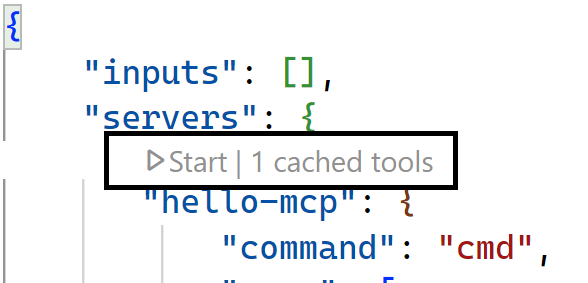
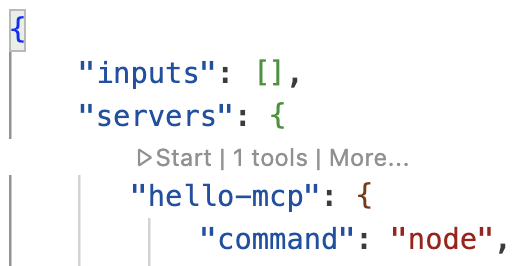
fix mcp json plus typos

diff --git a/03-GettingStarted/04-vscode/README.md b/03-GettingStarted/04-vscode/README.md
@@ -36,20 +36,19 @@ You can control your MCP server in two different ways:
 
 Let's talk more about how we use the visual interface in the next sections.
 
-
-## Approach 
+## Approach
 
 Here's how we need to approach this at high level:
 
 - Configure a file to find our MCP Server.
 - Start up/Connect to said server to have it list its capabilities.
-- Use said capabilities through GitHub Copilots chat interface.
+- Use said capabilities through GitHub Copilot Chat interface.
 
 Great, now that we understand the flow, let's try use an MCP Server through Visual Studio Code through an exercise.
 
 ## Exercise: Consuming a server
 
-In this exercise, we will configure Visual Studio Code to find your MCP server so that it can be used from GitHub Copilots chat interface.
+In this exercise, we will configure Visual Studio Code to find your MCP server so that it can be used from GitHub Copilot Chat interface.
 
 ### -0- Prestep, enable MCP Server discovery
 
@@ -79,9 +78,9 @@ Add the following content to *mcp.json*:
     "inputs": [],
     "servers": {
        "hello-mcp": {
-           "command": "cmd",
+           "command": "node",
            "args": [
-               "/c", "node", "<absolute path>\\build\\index.js"
+               "build/index.js"
            ]
        }
     }
@@ -98,11 +97,11 @@ Now that you've added an entry, let's start the server:
 
   ![Starting server in Visual Studio Code](./assets/vscode-start-server.png)  
 
-1. Click the "play" icon, you should see the tools icon in the GitHun Copilot chat increase the number of available tools. If you click said tools icon, you will see a list of registered tools. You can check/uncheck each tool depending if you want GitHub Copilot to use them as context: 
+1. Click the "play" icon, you should see the tools icon in the GitHub Copilot Chat increase the number of available tools. If you click said tools icon, you will see a list of registered tools. You can check/uncheck each tool depending if you want GitHub Copilot to use them as context:
 
   ![Starting server in Visual Studio Code](./assets/vscode-tool.png)
 
-1. Ton run a tool, type a prompt that you know will match the description of one of your tools, for example a prompt like so "add 22 to 1":
+1. To run a tool, type a prompt that you know will match the description of one of your tools, for example a prompt like so "add 22 to 1":
 
   ![Running a tool from GitHub Copilot](./assets/vscode-agent.png)
 
@@ -110,7 +109,7 @@ Now that you've added an entry, let's start the server:
 
 ## Assignment
 
-Try adding a server entry to you *mcp.json* file and make sure you can start/stop the server. Make sure you can also communicate with the tools on your server via GitHub Copilots chat interface.
+Try adding a server entry to you *mcp.json* file and make sure you can start/stop the server. Make sure you can also communicate with the tools on your server via GitHub Copilot Chat interface.
 
 ## Solution
 
@@ -121,16 +120,16 @@ Try adding a server entry to you *mcp.json* file and make sure you can start/sto
 The takeaways from this chapter is the following:
 
 - Visual Studio Code is a great client that lets you consume several MCP Servers and their tools.
-- GitHub Copilots chat interface is how you interact with the servers.
+- GitHub Copilot Chat interface is how you interact with the servers.
 - You can prompt the user for inputs like API keys that can be passed to the MCP Server when configuring the server entry in *mcp.json* file.
 
-## Samples 
+## Samples
 
 - [Java Calculator](../samples/java/calculator/README.md)
 - [.Net Calculator](../samples/csharp/)
 - [JavaScript Calculator](../samples/javascript/README.md)
 - [TypeScript Calculator](../samples/typescript/README.md)
-- [Python Calculator](../samples/python/) 
+- [Python Calculator](../samples/python/)
 
 ## Additional Resources
 
@@ -139,5 +138,3 @@ The takeaways from this chapter is the following:
 ## What's Next
 
 - Next: [Creating an SSE Server](/03-GettingStarted/05-sse-server/README.md)
-
-

diff --git a/03-GettingStarted/04-vscode/solution/README.md b/03-GettingStarted/04-vscode/solution/README.md
@@ -4,7 +4,7 @@ Here we assume you already have a working server code. Please locate a server fr
 
 ## Set up mcp.json
 
-Here's a file you use for reference, [mcp.json](./mcp.json). 
+Here's a file you use for reference, [mcp.json](./mcp.json).
 
 Change the server entry as needed to point out the absolute path to your server including the needed full command to run.
 
@@ -12,30 +12,29 @@ In the example file referred above the server entry looks like so:
 
 ```json
 "hello-mcp": {
-    "command": "cmd",
+    "command": "node",
     "args": [
-        "/c", "node", "<absolute path>\\build\\index.js"
+        "build/index.js"
     ]
 }
 ```
 
-This corresponds to running a command like so: `cmd /c node <absolute path>\\build\index.js`. 
+This corresponds to running a command like so: `node build/index.js`.
 
 - Change this server entry to fit where your server file is located or to what's needed to startup your server depending on your chosen runtime and server location.
 
 ## Consume the features in the server
 
-- Click the `play` icon, once you've added *mcp.json* to *./vscode* folder, 
+- Click the `play` icon, once you've added *mcp.json* to *./vscode* folder,
 
     Observe the tooling icon change to increase the number of available tools. Tooling icon is located right above the chat field in GitHub Copilot.
 
 ## Run a tool
 
-- Type a prompt in your chat window that matches the description of your tool. For example to trigger the tool `add` type something like "add 3 to 20". 
+- Type a prompt in your chat window that matches the description of your tool. For example to trigger the tool `add` type something like "add 3 to 20".
 
     You should see a tool being presented above the chat text box indicating for you to select to run the tool like in this visual:
 
     ![VS Code indicating it wanting to run a tool](../assets/vscode-agent.png)
 
     Selecting the tool should produce a numeric result saying "23" if your prompt was like we mentioned previously.
-

diff --git a/03-GettingStarted/02-client/README.md b/03-GettingStarted/02-client/README.md
@@ -96,7 +96,7 @@ As said above, let's take our time explaining the code, and by all means code al
 
 ### -1- Import the libraries
 
-Let's import the libraries we need, we will need references to a client and to our chosen transport protocol, stdio. stdio is a protcol for things meant to run on your local machine. SSE is another transport protocol we will show in future chapters but that's your other option. For now though, let's continue with stdio. 
+Let's import the libraries we need, we will need references to a client and to our chosen transport protocol, stdio. stdio is a protocol for things meant to run on your local machine. SSE is another transport protocol we will show in future chapters but that's your other option. For now though, let's continue with stdio. 
 
 <details>
 <summary>TypeScript</summary>

diff --git a/README.md b/README.md
@@ -13,7 +13,7 @@
 [![Microsoft Azure AI Foundry Discord](https://dcbadge.vercel.app/api/server/ByRwuEEgH4)](https://discord.com/invite/ByRwuEEgH4)
 
 
-Follow these steps to get started using these resources :
+Follow these steps to get started using these resources:
 1. **Fork the Repository**: Click [![GitHub forks](https://img.shields.io/github/forks/microsoft/mcp-for-beginners.svg?style=social&label=Fork)](https://GitHub.com/microsoft/mcp-for-beginners/fork)
 2. **Clone the Repository**:   `git clone https://github.com/microsoft/mcp-for-beginners.git`
 3. [**Join The Azure AI Foundry Discord and meet experts and fellow developers**](https://discord.com/invite/ByRwuEEgH4)
